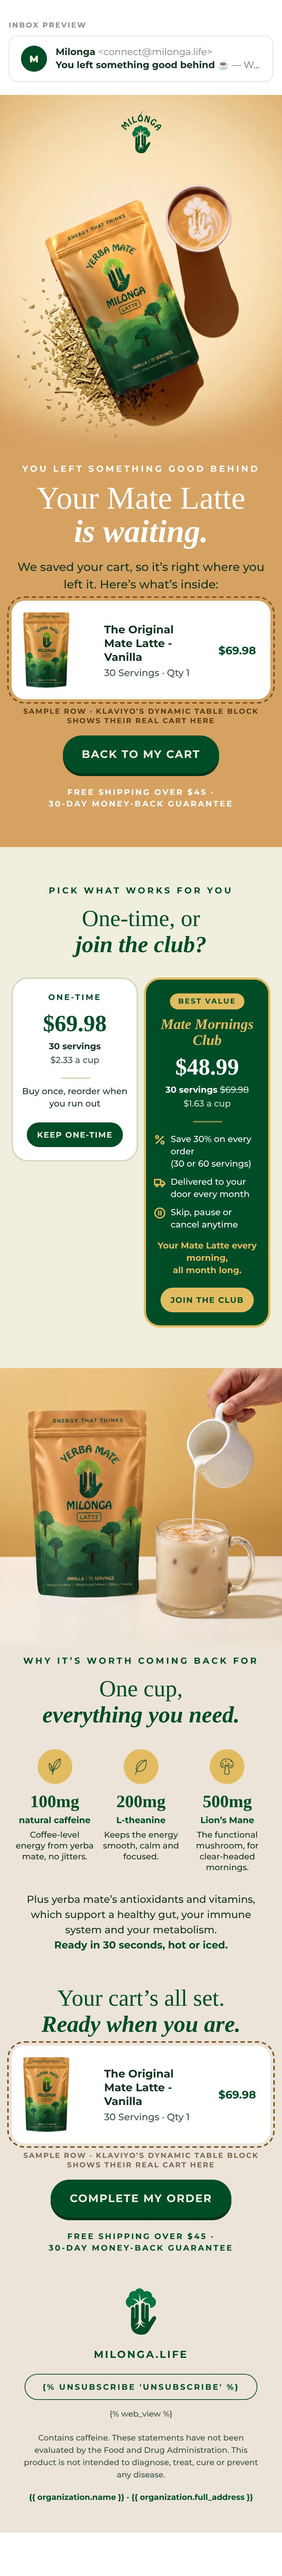
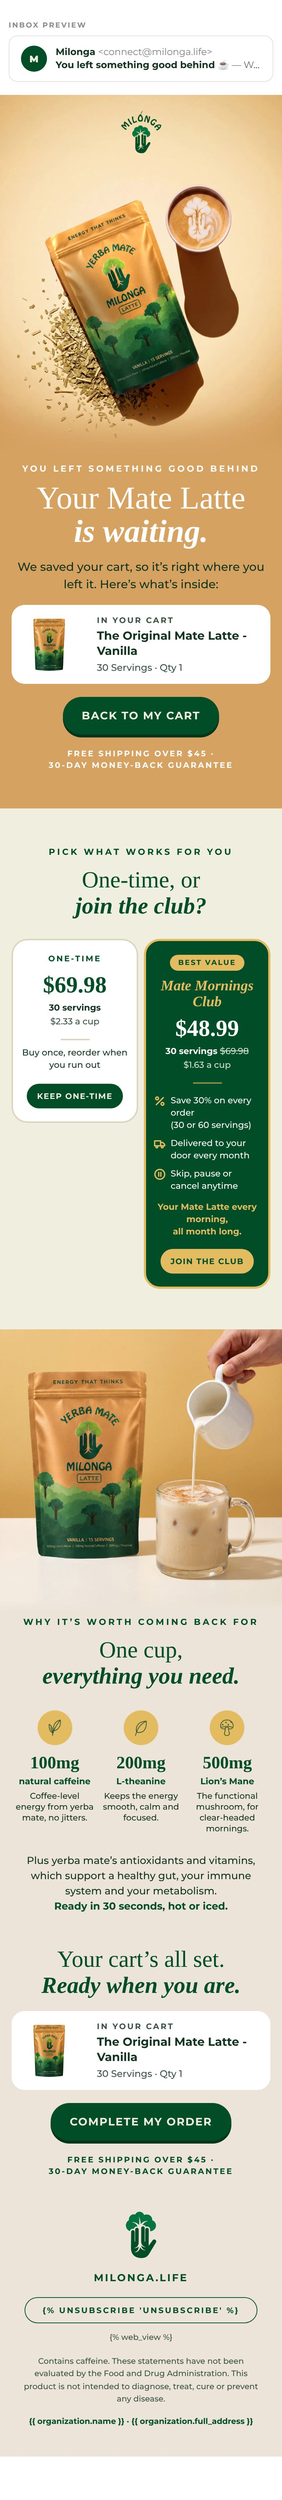
Cart E1: one complete HTML email with the cart rows built in
For a Klaviyo code template: the first cart item (image, name, size, qty)
from event.items.0, with Mate Latte defaults; render-checked in Klaviyo.

Claude-Session: https://claude.ai/code/session_01NhEtXPnfeCJfN73SqBkUZ5

diff --git a/email-ds/exports/klaviyo/cart-e1/cart-e1.html b/email-ds/exports/klaviyo/cart-e1/cart-e1.html
@@ -1,7 +1,10 @@
-<!--
-  CART ABANDONMENT · MATE LATTE · EMAIL 1 · "You left something good behind ☕" · HTML BLOCK 2 of 3 (between cart 1 and cart 2)
-  GENERATED by scripts/make-cart-e1.mjs. Edit the script, not this file.
--->
+<!doctype html>
+<html lang="en">
+<head>
+<meta charset="utf-8">
+<meta name="viewport" content="width=device-width, initial-scale=1">
+<meta name="x-apple-disable-message-reformatting">
+<title>You left something good behind ☕</title>
 <style>
   @import url('https://fonts.googleapis.com/css2?family=Montserrat:wght@500;700&display=swap');
   table { border-collapse:collapse; }
@@ -40,6 +43,47 @@
     .bg-table { background-color:#EDE4D9 !important; }
   }
 </style>
+</head>
+<body style="margin:0;padding:0;background-color:#FFFFFF;">
+<!--
+  CART ABANDONMENT · MATE LATTE · EMAIL 1 · "You left something good behind ☕" · the whole email
+  Preview text: We saved your cart. Your creamy vanilla mornings are one click away.
+  Send: 1 hour after Added to Cart (Mate Latte in the cart). No discount.
+  One complete HTML email for a Klaviyo CODE template. The cart rows show the first
+  item of the Added to Cart event's items list.
+  GENERATED by scripts/make-cart-e1.mjs. Edit the script, not this file.
+-->
+<table role="presentation" width="100%" cellpadding="0" cellspacing="0" border="0" bgcolor="#FFFFFF" class="bg-white" style="background-color:#FFFFFF;">
+<tr><td align="center">
+<table role="presentation" class="wrap" width="600" cellpadding="0" cellspacing="0" border="0" style="width:600px;max-width:600px;">
+
+<!-- ── 1 · YOUR MATE LATTE IS WAITING (the photo is the section's background:
+     its top and bottom fade into the flat golds of the rows around it, and the
+     same gold carries on under Klaviyo's cart block and the button) ── -->
+<tr><td class="bg-hero-top" bgcolor="#E8C58D" style="background-color:#E8C58D;padding:0;font-size:0;line-height:0;"><a href="{{ event.extra.checkout_url|default:'https://milonga.life/cart' }}" target="_blank"><img class="full" src="https://cdn.klaviyomail.com/company/TwvSnK/images/3f6157b6-658c-4a64-b13c-51b9711deda9.jpeg" width="600" height="773" alt="Milonga. The Mate Latte pouch beside a latte, with loose yerba mate on a golden table" style="display:block;width:600px;height:773px;border:0;"></a></td></tr>
+<tr><td class="pad bg-hero" align="center" bgcolor="#D5A262" style="background-color:#D5A262;padding:6px 40px 10px;font-family:'Montserrat','Helvetica Neue',Helvetica,Arial,sans-serif;">
+<div style="font-size:12px;line-height:16px;font-weight:700;letter-spacing:3px;text-transform:uppercase;color:#FFFFFF;">You left something good behind</div>
+<div class="h-hero" style="padding-top:10px;font-family:'Times New Roman',Times,Georgia,serif;font-size:54px;line-height:58px;font-weight:400;color:#FFFFFF;">Your Mate Latte</div>
+<div class="h-hero" style="font-family:'Times New Roman',Times,Georgia,serif;font-size:54px;line-height:58px;font-weight:700;font-style:italic;color:#FFFFFF;">is waiting.</div>
+<div style="padding-top:14px;font-size:16px;line-height:24px;font-weight:500;color:#12331F;">We saved your cart, so it&rsquo;s right where you left it. <span style="white-space:nowrap;">Here&rsquo;s what&rsquo;s inside:</span></div>
+</td></tr>
+<tr><td class="pad-photo bg-hero" bgcolor="#D5A262" style="background-color:#D5A262;padding:6px 30px 4px;">
+<table role="presentation" width="100%" cellpadding="0" cellspacing="0" border="0" bgcolor="#FFFFFF" style="border-collapse:separate;background-color:#FFFFFF;border-radius:18px;"><tr>
+<td class="cart-img" width="88" valign="middle" style="width:88px;padding:14px 0 14px 16px;"><a href="{{ event.extra.checkout_url|default:'https://milonga.life/cart' }}" target="_blank"><img src="{{ event.items.0.image|default:'https://cdn.klaviyomail.com/company/TwvSnK/images/dd3e85e8-9b20-404f-99b8-4c8516057d55.png' }}" width="72" height="72" alt="Your Mate Latte" style="display:block;width:72px;height:72px;border:0;border-radius:10px;object-fit:contain;"></a></td>
+<td valign="middle" style="padding:14px 18px 14px 14px;font-family:'Montserrat','Helvetica Neue',Helvetica,Arial,sans-serif;">
+<div style="font-size:11px;line-height:14px;font-weight:700;letter-spacing:2px;text-transform:uppercase;color:#3B5344;">In your cart</div>
+<div class="cart-title" style="padding-top:4px;font-size:16px;line-height:21px;font-weight:700;color:#12331F;">{{ event.items.0.product_title|default:'The Original Mate Latte - Vanilla' }}</div>
+<div style="padding-top:3px;font-size:13px;line-height:18px;font-weight:500;color:#3B5344;">{{ event.items.0.variant_title|default:'Vanilla' }} &middot; Qty {{ event.items.0.quantity|default:'1' }}</div>
+</td></tr></table>
+</td></tr>
+
+</table>
+</td></tr>
+</table>
+<!--
+  CART ABANDONMENT · MATE LATTE · EMAIL 1 · "You left something good behind ☕" · HTML BLOCK 2 of 3 (between cart 1 and cart 2)
+  GENERATED by scripts/make-cart-e1.mjs. Edit the script, not this file.
+-->
 <table role="presentation" width="100%" cellpadding="0" cellspacing="0" border="0" bgcolor="#FFFFFF" class="bg-white" style="background-color:#FFFFFF;">
 <tr><td align="center">
 <table role="presentation" class="wrap" width="600" cellpadding="0" cellspacing="0" border="0" style="width:600px;max-width:600px;">
@@ -137,7 +181,47 @@
 <div class="h-sec" style="padding-top:0px;font-family:'Times New Roman',Times,Georgia,serif;font-size:34px;line-height:38px;font-weight:400;color:#004D27;">Your cart&rsquo;s all set.</div>
 <div class="h-sec" style="font-family:'Times New Roman',Times,Georgia,serif;font-size:34px;line-height:38px;font-weight:700;font-style:italic;color:#004D27;">Ready when you are.</div>
 </td></tr>
+<tr><td class="pad-photo bg-table" bgcolor="#EDE4D9" style="background-color:#EDE4D9;padding:6px 30px 4px;">
+<table role="presentation" width="100%" cellpadding="0" cellspacing="0" border="0" bgcolor="#FFFFFF" style="border-collapse:separate;background-color:#FFFFFF;border-radius:18px;"><tr>
+<td class="cart-img" width="88" valign="middle" style="width:88px;padding:14px 0 14px 16px;"><a href="{{ event.extra.checkout_url|default:'https://milonga.life/cart' }}" target="_blank"><img src="{{ event.items.0.image|default:'https://cdn.klaviyomail.com/company/TwvSnK/images/dd3e85e8-9b20-404f-99b8-4c8516057d55.png' }}" width="72" height="72" alt="Your Mate Latte" style="display:block;width:72px;height:72px;border:0;border-radius:10px;object-fit:contain;"></a></td>
+<td valign="middle" style="padding:14px 18px 14px 14px;font-family:'Montserrat','Helvetica Neue',Helvetica,Arial,sans-serif;">
+<div style="font-size:11px;line-height:14px;font-weight:700;letter-spacing:2px;text-transform:uppercase;color:#3B5344;">In your cart</div>
+<div class="cart-title" style="padding-top:4px;font-size:16px;line-height:21px;font-weight:700;color:#12331F;">{{ event.items.0.product_title|default:'The Original Mate Latte - Vanilla' }}</div>
+<div style="padding-top:3px;font-size:13px;line-height:18px;font-weight:500;color:#3B5344;">{{ event.items.0.variant_title|default:'Vanilla' }} &middot; Qty {{ event.items.0.quantity|default:'1' }}</div>
+</td></tr></table>
+</td></tr>
 
 </table>
 </td></tr>
 </table>
+<!--
+  CART ABANDONMENT · MATE LATTE · EMAIL 1 · "You left something good behind ☕" · HTML BLOCK 3 of 3 (below cart 2)
+  GENERATED by scripts/make-cart-e1.mjs. Edit the script, not this file.
+-->
+<table role="presentation" width="100%" cellpadding="0" cellspacing="0" border="0" bgcolor="#FFFFFF" class="bg-white" style="background-color:#FFFFFF;">
+<tr><td align="center">
+<table role="presentation" class="wrap" width="600" cellpadding="0" cellspacing="0" border="0" style="width:600px;max-width:600px;">
+
+<!-- ── 3 (continued) · the closing button, on the same cream as cart 2 above ── -->
+<tr><td class="pad bg-table" align="center" bgcolor="#EDE4D9" style="background-color:#EDE4D9;padding:14px 40px 0;font-family:'Montserrat','Helvetica Neue',Helvetica,Arial,sans-serif;">
+<!--[if mso]>
+<v:roundrect xmlns:v="urn:schemas-microsoft-com:vml" xmlns:w="urn:schemas-microsoft-com:office:word" href="{{ event.extra.checkout_url|default:'https://milonga.life/cart' }}" style="height:56px;v-text-anchor:middle;width:320px;" arcsize="50%" stroke="f" fillcolor="#004D27"><w:anchorlock/><center style="color:#F0EFDF;font-family:Arial,sans-serif;font-size:16px;font-weight:bold;letter-spacing:2px;">Complete my order</center></v:roundrect>
+<![endif]--><!--[if !mso]><!-- --><a href="{{ event.extra.checkout_url|default:'https://milonga.life/cart' }}" target="_blank" class="btn" style="display:inline-block;background-color:#004D27;border-radius:999px;padding:20px 40px;font-family:'Montserrat','Helvetica Neue',Helvetica,Arial,sans-serif;font-size:16px;line-height:16px;font-weight:700;letter-spacing:2px;text-transform:uppercase;white-space:nowrap;color:#F0EFDF;text-decoration:none;box-shadow:0 4px 0 #00351B;">Complete my order</a><!--<![endif]-->
+<div style="padding-top:18px;font-size:11px;line-height:16px;font-weight:700;letter-spacing:2px;text-transform:uppercase;color:#004D27;"><span style="white-space:nowrap;">Free shipping over $45</span> &middot; <span style="white-space:nowrap;">30-day money-back guarantee</span></div>
+</td></tr>
+
+<!-- ── FOOTER ─────────────────────────────────────────────────────── -->
+<tr><td class="bg-table" align="center" bgcolor="#EDE4D9" style="background-color:#EDE4D9;padding:48px 30px 40px;font-family:'Montserrat','Helvetica Neue',Helvetica,Arial,sans-serif;color:#004D27;">
+<a href="https://milonga.life/?utm_source=klaviyo&amp;utm_medium=email&amp;utm_campaign=cart_abandon_mate_latte&amp;utm_content=c1_logo" target="_blank"><img src="https://cdn.klaviyomail.com/company/TwvSnK/images/0e781634-6907-42f6-b101-3c2c15371a99.png" width="61" height="64" alt="Milonga" style="display:block;margin:0 auto;height:64px;width:auto;border:0;"></a>
+<div style="padding-top:18px;font-size:14px;font-weight:700;letter-spacing:2px;text-transform:uppercase;"><a href="https://milonga.life/?utm_source=klaviyo&amp;utm_medium=email&amp;utm_campaign=cart_abandon_mate_latte&amp;utm_content=c1_logo" target="_blank" style="color:#004D27;text-decoration:none;">milonga.life</a></div>
+<table role="presentation" cellpadding="0" cellspacing="0" border="0" align="center" style="margin:18px auto 0;border-collapse:separate;"><tr><td class="unsub-pill" align="center" style="border:1.5px solid #004D27;border-radius:999px;padding:10px 24px;font-family:'Montserrat','Helvetica Neue',Helvetica,Arial,sans-serif;font-size:11px;font-weight:700;letter-spacing:2px;text-transform:uppercase;color:#004D27;">{% unsubscribe 'Unsubscribe' %}</td></tr></table>
+<div class="web-view-line" style="padding-top:12px;font-size:11px;font-weight:500;color:#3B5344;">{% web_view %}</div>
+<div style="padding-top:18px;font-size:11px;line-height:1.55;font-weight:500;color:#3B5344;">Contains caffeine. These statements have not been evaluated by the Food and Drug Administration. This product is not intended to diagnose, treat, cure or prevent any disease.</div>
+<div style="padding-top:14px;font-size:11px;line-height:1.55;font-weight:700;color:#004D27;">{{ organization.name }} &middot; {{ organization.full_address }}</div>
+</td></tr>
+
+</table>
+</td></tr>
+</table>
+</body>
+</html>

diff --git a/email-ds/refine/cart-e1.html b/email-ds/refine/cart-e1.html
@@ -13,11 +13,11 @@ body{margin:0;background:#FFFFFF;padding:28px 0 60px}
 <div class="from">Milonga <span>&lt;connect@milonga.life&gt;</span></div>
 <div class="sub"><b>You left something good behind ☕</b> <span>&mdash; We saved your cart. Your creamy vanilla mornings are one click away.</span></div></div></div>
 <!--
-  CART ABANDONMENT · MATE LATTE · EMAIL 1 · "You left something good behind ☕" · HTML BLOCK 1 of 3 (above cart 1)
+  CART ABANDONMENT · MATE LATTE · EMAIL 1 · "You left something good behind ☕" · the whole email
   Preview text: We saved your cart. Your creamy vanilla mornings are one click away.
   Send: 1 hour after Added to Cart (Mate Latte in the cart). No discount.
-  Layout in Klaviyo: [cart-e1-top.html] -> [Dynamic Table: the cart, background #D5A262]
-  -> [cart-e1-middle.html] -> [Dynamic Table: the cart, background #EDE4D9] -> [cart-e1-bottom.html]
+  One complete HTML email for a Klaviyo CODE template. The cart rows show the first
+  item of the Added to Cart event's items list.
   GENERATED by scripts/make-cart-e1.mjs. Edit the script, not this file.
 -->
 <style>
@@ -72,19 +72,19 @@ body{margin:0;background:#FFFFFF;padding:28px 0 60px}
 <div class="h-hero" style="font-family:'Times New Roman',Times,Georgia,serif;font-size:54px;line-height:58px;font-weight:700;font-style:italic;color:#FFFFFF;">is waiting.</div>
 <div style="padding-top:14px;font-size:16px;line-height:24px;font-weight:500;color:#12331F;">We saved your cart, so it&rsquo;s right where you left it. <span style="white-space:nowrap;">Here&rsquo;s what&rsquo;s inside:</span></div>
 </td></tr>
+<tr><td class="pad-photo bg-hero" bgcolor="#D5A262" style="background-color:#D5A262;padding:6px 30px 4px;">
+<table role="presentation" width="100%" cellpadding="0" cellspacing="0" border="0" bgcolor="#FFFFFF" style="border-collapse:separate;background-color:#FFFFFF;border-radius:18px;"><tr>
+<td class="cart-img" width="88" valign="middle" style="width:88px;padding:14px 0 14px 16px;"><a href="{{ event.extra.checkout_url|default:'https://milonga.life/cart' }}" target="_blank"><img src="../exports/klaviyo/cart-e1/img/cart-pouch.png" width="72" height="72" alt="Your Mate Latte" style="display:block;width:72px;height:72px;border:0;border-radius:10px;object-fit:contain;"></a></td>
+<td valign="middle" style="padding:14px 18px 14px 14px;font-family:'Montserrat','Helvetica Neue',Helvetica,Arial,sans-serif;">
+<div style="font-size:11px;line-height:14px;font-weight:700;letter-spacing:2px;text-transform:uppercase;color:#3B5344;">In your cart</div>
+<div class="cart-title" style="padding-top:4px;font-size:16px;line-height:21px;font-weight:700;color:#12331F;">The Original Mate Latte - Vanilla</div>
+<div style="padding-top:3px;font-size:13px;line-height:18px;font-weight:500;color:#3B5344;">30 Servings &middot; Qty 1</div>
+</td></tr></table>
+</td></tr>
 
 </table>
 </td></tr>
 </table>
-<table role="presentation" width="100%" cellpadding="0" cellspacing="0" border="0" bgcolor="#FFFFFF" style="background-color:#FFFFFF;"><tr><td align="center">
-<table role="presentation" width="100%" cellpadding="0" cellspacing="0" border="0" bgcolor="#D5A262" style="width:100%;max-width:600px;background-color:#D5A262;"><tr><td style="padding:0 16px;">
-<table role="presentation" width="100%" cellpadding="0" cellspacing="0" border="0" style="border-collapse:separate;background:#FFFFFF;border-radius:18px;outline:2px dashed #7A5320;outline-offset:4px;"><tr>
-<td width="96" style="padding:16px;"><img src="../exports/klaviyo/cart-e1/img/cart-pouch.png" width="64" height="96" alt="" style="display:block;width:64px;height:auto;"></td>
-<td style="padding:16px 0;font-family:'Montserrat','Helvetica Neue',Helvetica,Arial,sans-serif;"><div style="font-size:15px;font-weight:700;color:#12331F;">The Original Mate Latte - Vanilla</div><div style="padding-top:4px;font-size:13px;font-weight:500;color:#3B5344;">30 Servings &middot; Qty 1</div></td>
-<td align="right" style="padding:16px 20px;font-family:'Montserrat','Helvetica Neue',Helvetica,Arial,sans-serif;font-size:15px;font-weight:700;color:#004D27;">$69.98</td>
-</tr></table>
-<div style="padding:10px 0 0;font-family:'Montserrat','Helvetica Neue',Helvetica,Arial,sans-serif;font-size:10px;font-weight:700;letter-spacing:.14em;text-transform:uppercase;color:#5A3A12;text-align:center;">Sample row &middot; Klaviyo&rsquo;s Dynamic Table block shows their real cart here</div>
-</td></tr></table></td></tr></table>
 <!--
   CART ABANDONMENT · MATE LATTE · EMAIL 1 · "You left something good behind ☕" · HTML BLOCK 2 of 3 (between cart 1 and cart 2)
   GENERATED by scripts/make-cart-e1.mjs. Edit the script, not this file.
@@ -224,19 +224,19 @@ body{margin:0;background:#FFFFFF;padding:28px 0 60px}
 <div class="h-sec" style="padding-top:0px;font-family:'Times New Roman',Times,Georgia,serif;font-size:34px;line-height:38px;font-weight:400;color:#004D27;">Your cart&rsquo;s all set.</div>
 <div class="h-sec" style="font-family:'Times New Roman',Times,Georgia,serif;font-size:34px;line-height:38px;font-weight:700;font-style:italic;color:#004D27;">Ready when you are.</div>
 </td></tr>
+<tr><td class="pad-photo bg-table" bgcolor="#EDE4D9" style="background-color:#EDE4D9;padding:6px 30px 4px;">
+<table role="presentation" width="100%" cellpadding="0" cellspacing="0" border="0" bgcolor="#FFFFFF" style="border-collapse:separate;background-color:#FFFFFF;border-radius:18px;"><tr>
+<td class="cart-img" width="88" valign="middle" style="width:88px;padding:14px 0 14px 16px;"><a href="{{ event.extra.checkout_url|default:'https://milonga.life/cart' }}" target="_blank"><img src="../exports/klaviyo/cart-e1/img/cart-pouch.png" width="72" height="72" alt="Your Mate Latte" style="display:block;width:72px;height:72px;border:0;border-radius:10px;object-fit:contain;"></a></td>
+<td valign="middle" style="padding:14px 18px 14px 14px;font-family:'Montserrat','Helvetica Neue',Helvetica,Arial,sans-serif;">
+<div style="font-size:11px;line-height:14px;font-weight:700;letter-spacing:2px;text-transform:uppercase;color:#3B5344;">In your cart</div>
+<div class="cart-title" style="padding-top:4px;font-size:16px;line-height:21px;font-weight:700;color:#12331F;">The Original Mate Latte - Vanilla</div>
+<div style="padding-top:3px;font-size:13px;line-height:18px;font-weight:500;color:#3B5344;">30 Servings &middot; Qty 1</div>
+</td></tr></table>
+</td></tr>
 
 </table>
 </td></tr>
 </table>
-<table role="presentation" width="100%" cellpadding="0" cellspacing="0" border="0" bgcolor="#FFFFFF" style="background-color:#FFFFFF;"><tr><td align="center">
-<table role="presentation" width="100%" cellpadding="0" cellspacing="0" border="0" bgcolor="#EDE4D9" style="width:100%;max-width:600px;background-color:#EDE4D9;"><tr><td style="padding:0 16px;">
-<table role="presentation" width="100%" cellpadding="0" cellspacing="0" border="0" style="border-collapse:separate;background:#FFFFFF;border-radius:18px;outline:2px dashed #7A5320;outline-offset:4px;"><tr>
-<td width="96" style="padding:16px;"><img src="../exports/klaviyo/cart-e1/img/cart-pouch.png" width="64" height="96" alt="" style="display:block;width:64px;height:auto;"></td>
-<td style="padding:16px 0;font-family:'Montserrat','Helvetica Neue',Helvetica,Arial,sans-serif;"><div style="font-size:15px;font-weight:700;color:#12331F;">The Original Mate Latte - Vanilla</div><div style="padding-top:4px;font-size:13px;font-weight:500;color:#3B5344;">30 Servings &middot; Qty 1</div></td>
-<td align="right" style="padding:16px 20px;font-family:'Montserrat','Helvetica Neue',Helvetica,Arial,sans-serif;font-size:15px;font-weight:700;color:#004D27;">$69.98</td>
-</tr></table>
-<div style="padding:10px 0 0;font-family:'Montserrat','Helvetica Neue',Helvetica,Arial,sans-serif;font-size:10px;font-weight:700;letter-spacing:.14em;text-transform:uppercase;color:#7A6A55;text-align:center;">Sample row &middot; Klaviyo&rsquo;s Dynamic Table block shows their real cart here</div>
-</td></tr></table></td></tr></table>
 <!--
   CART ABANDONMENT · MATE LATTE · EMAIL 1 · "You left something good behind ☕" · HTML BLOCK 3 of 3 (below cart 2)
   GENERATED by scripts/make-cart-e1.mjs. Edit the script, not this file.
